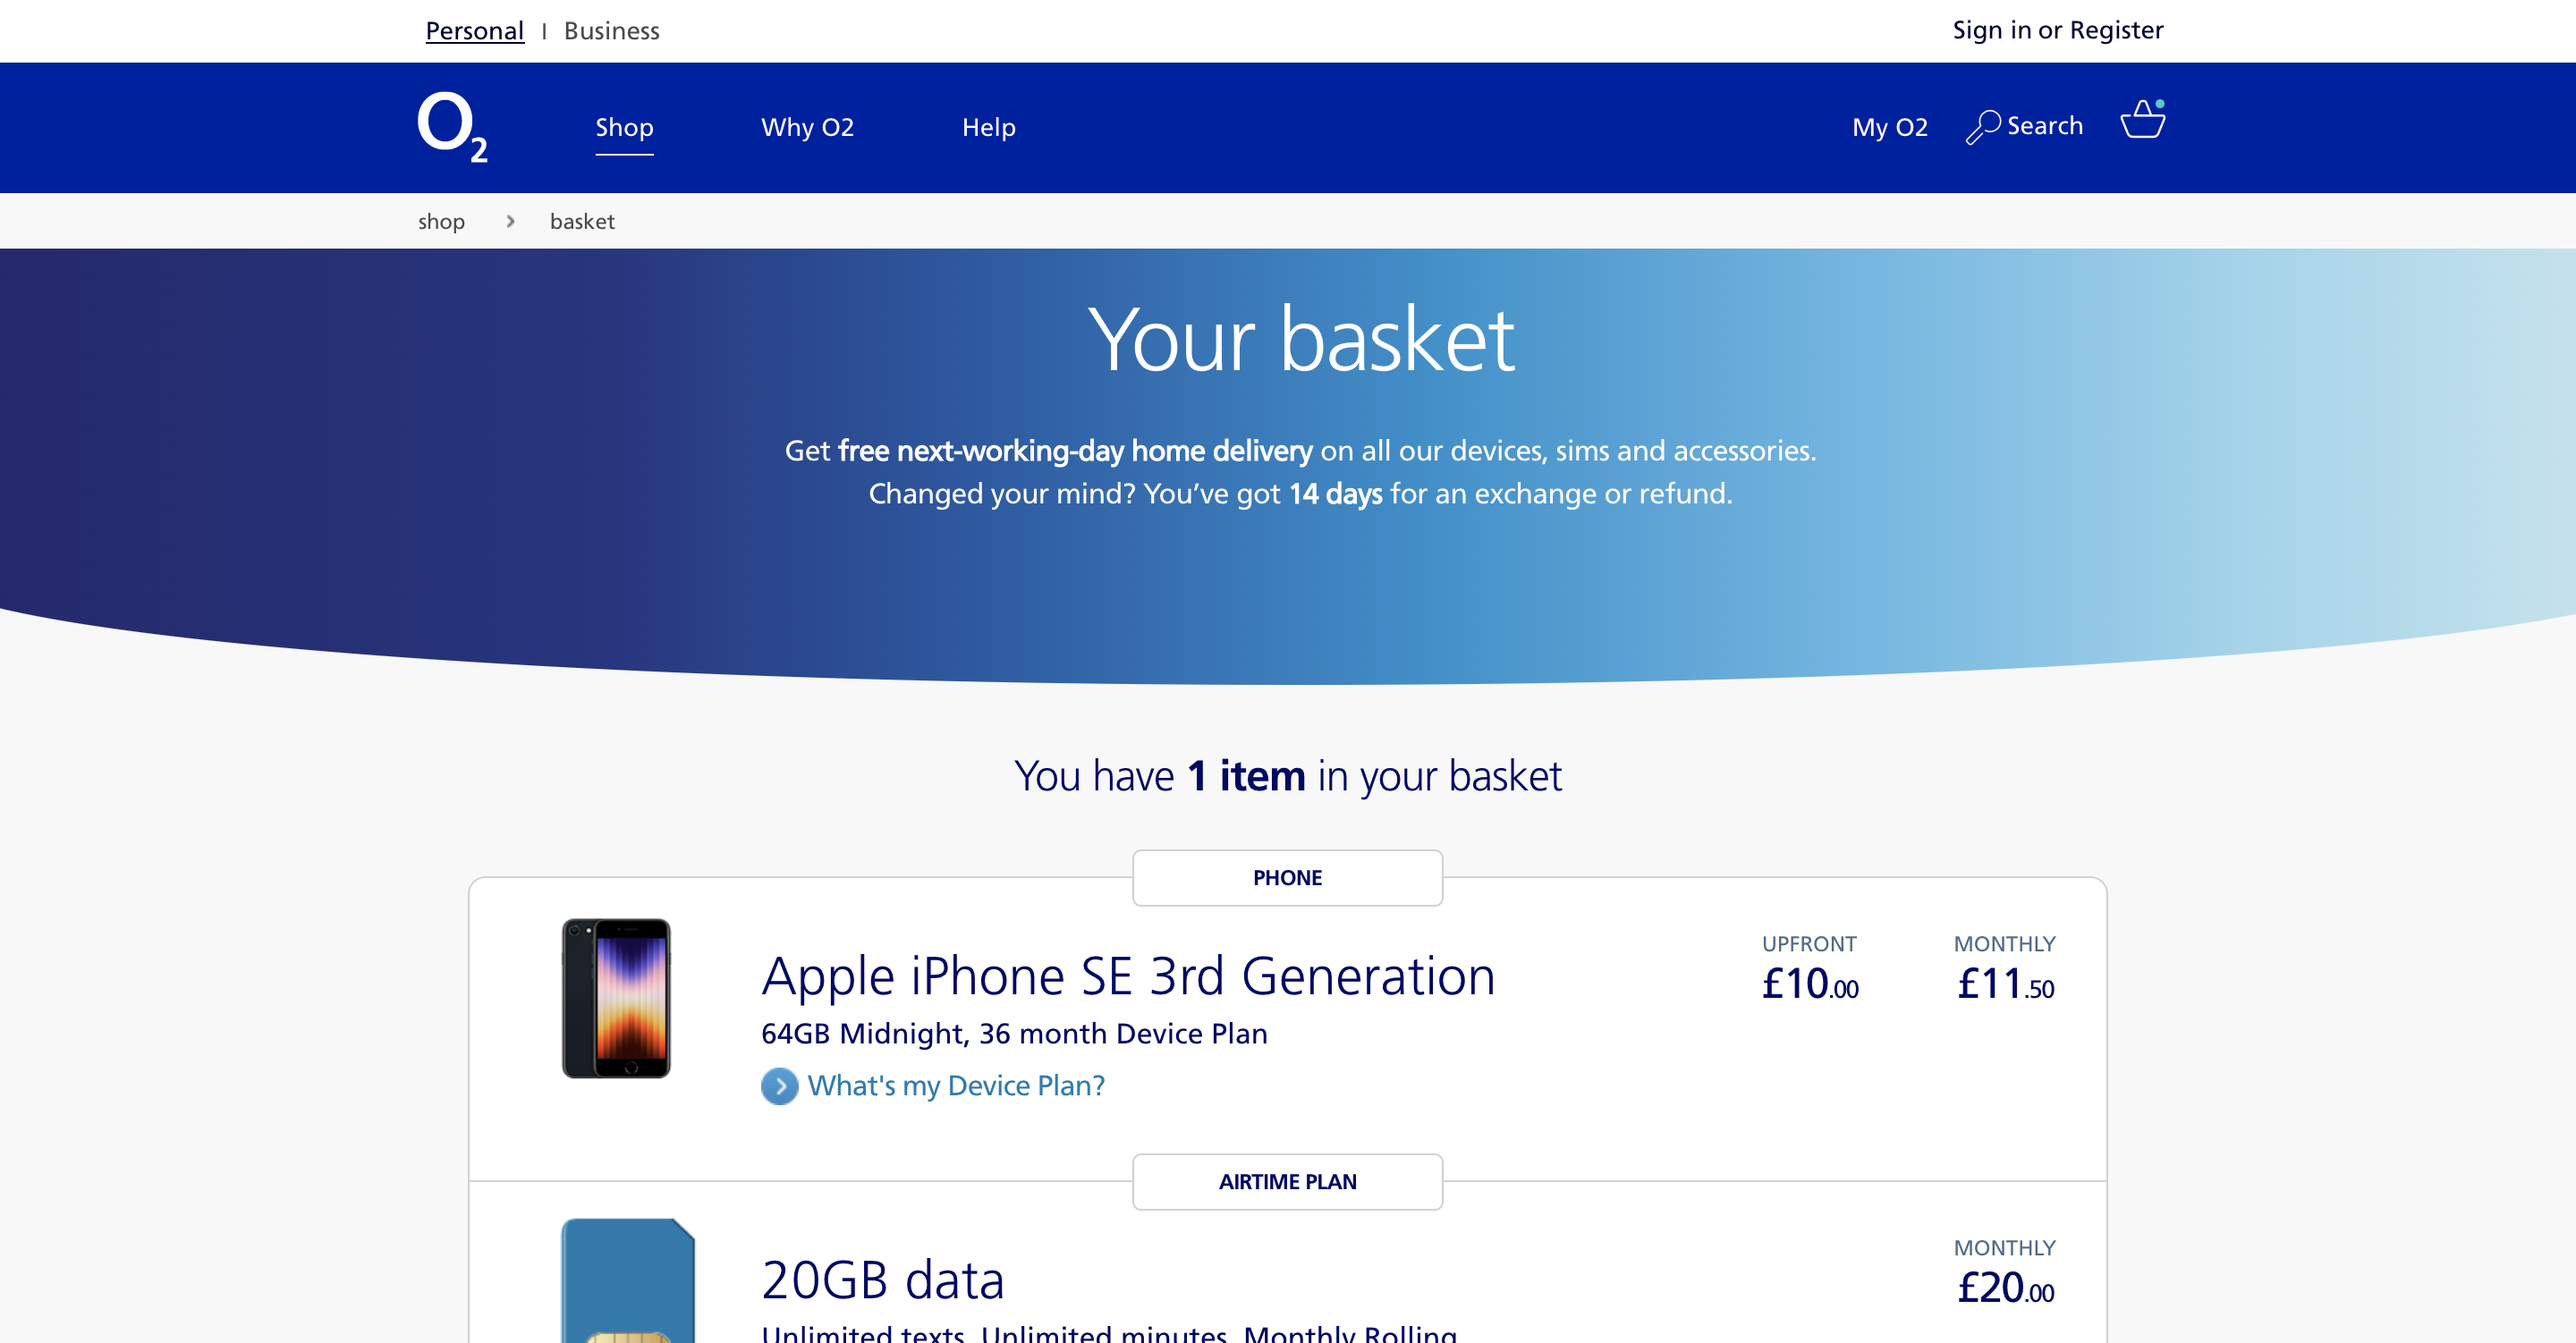
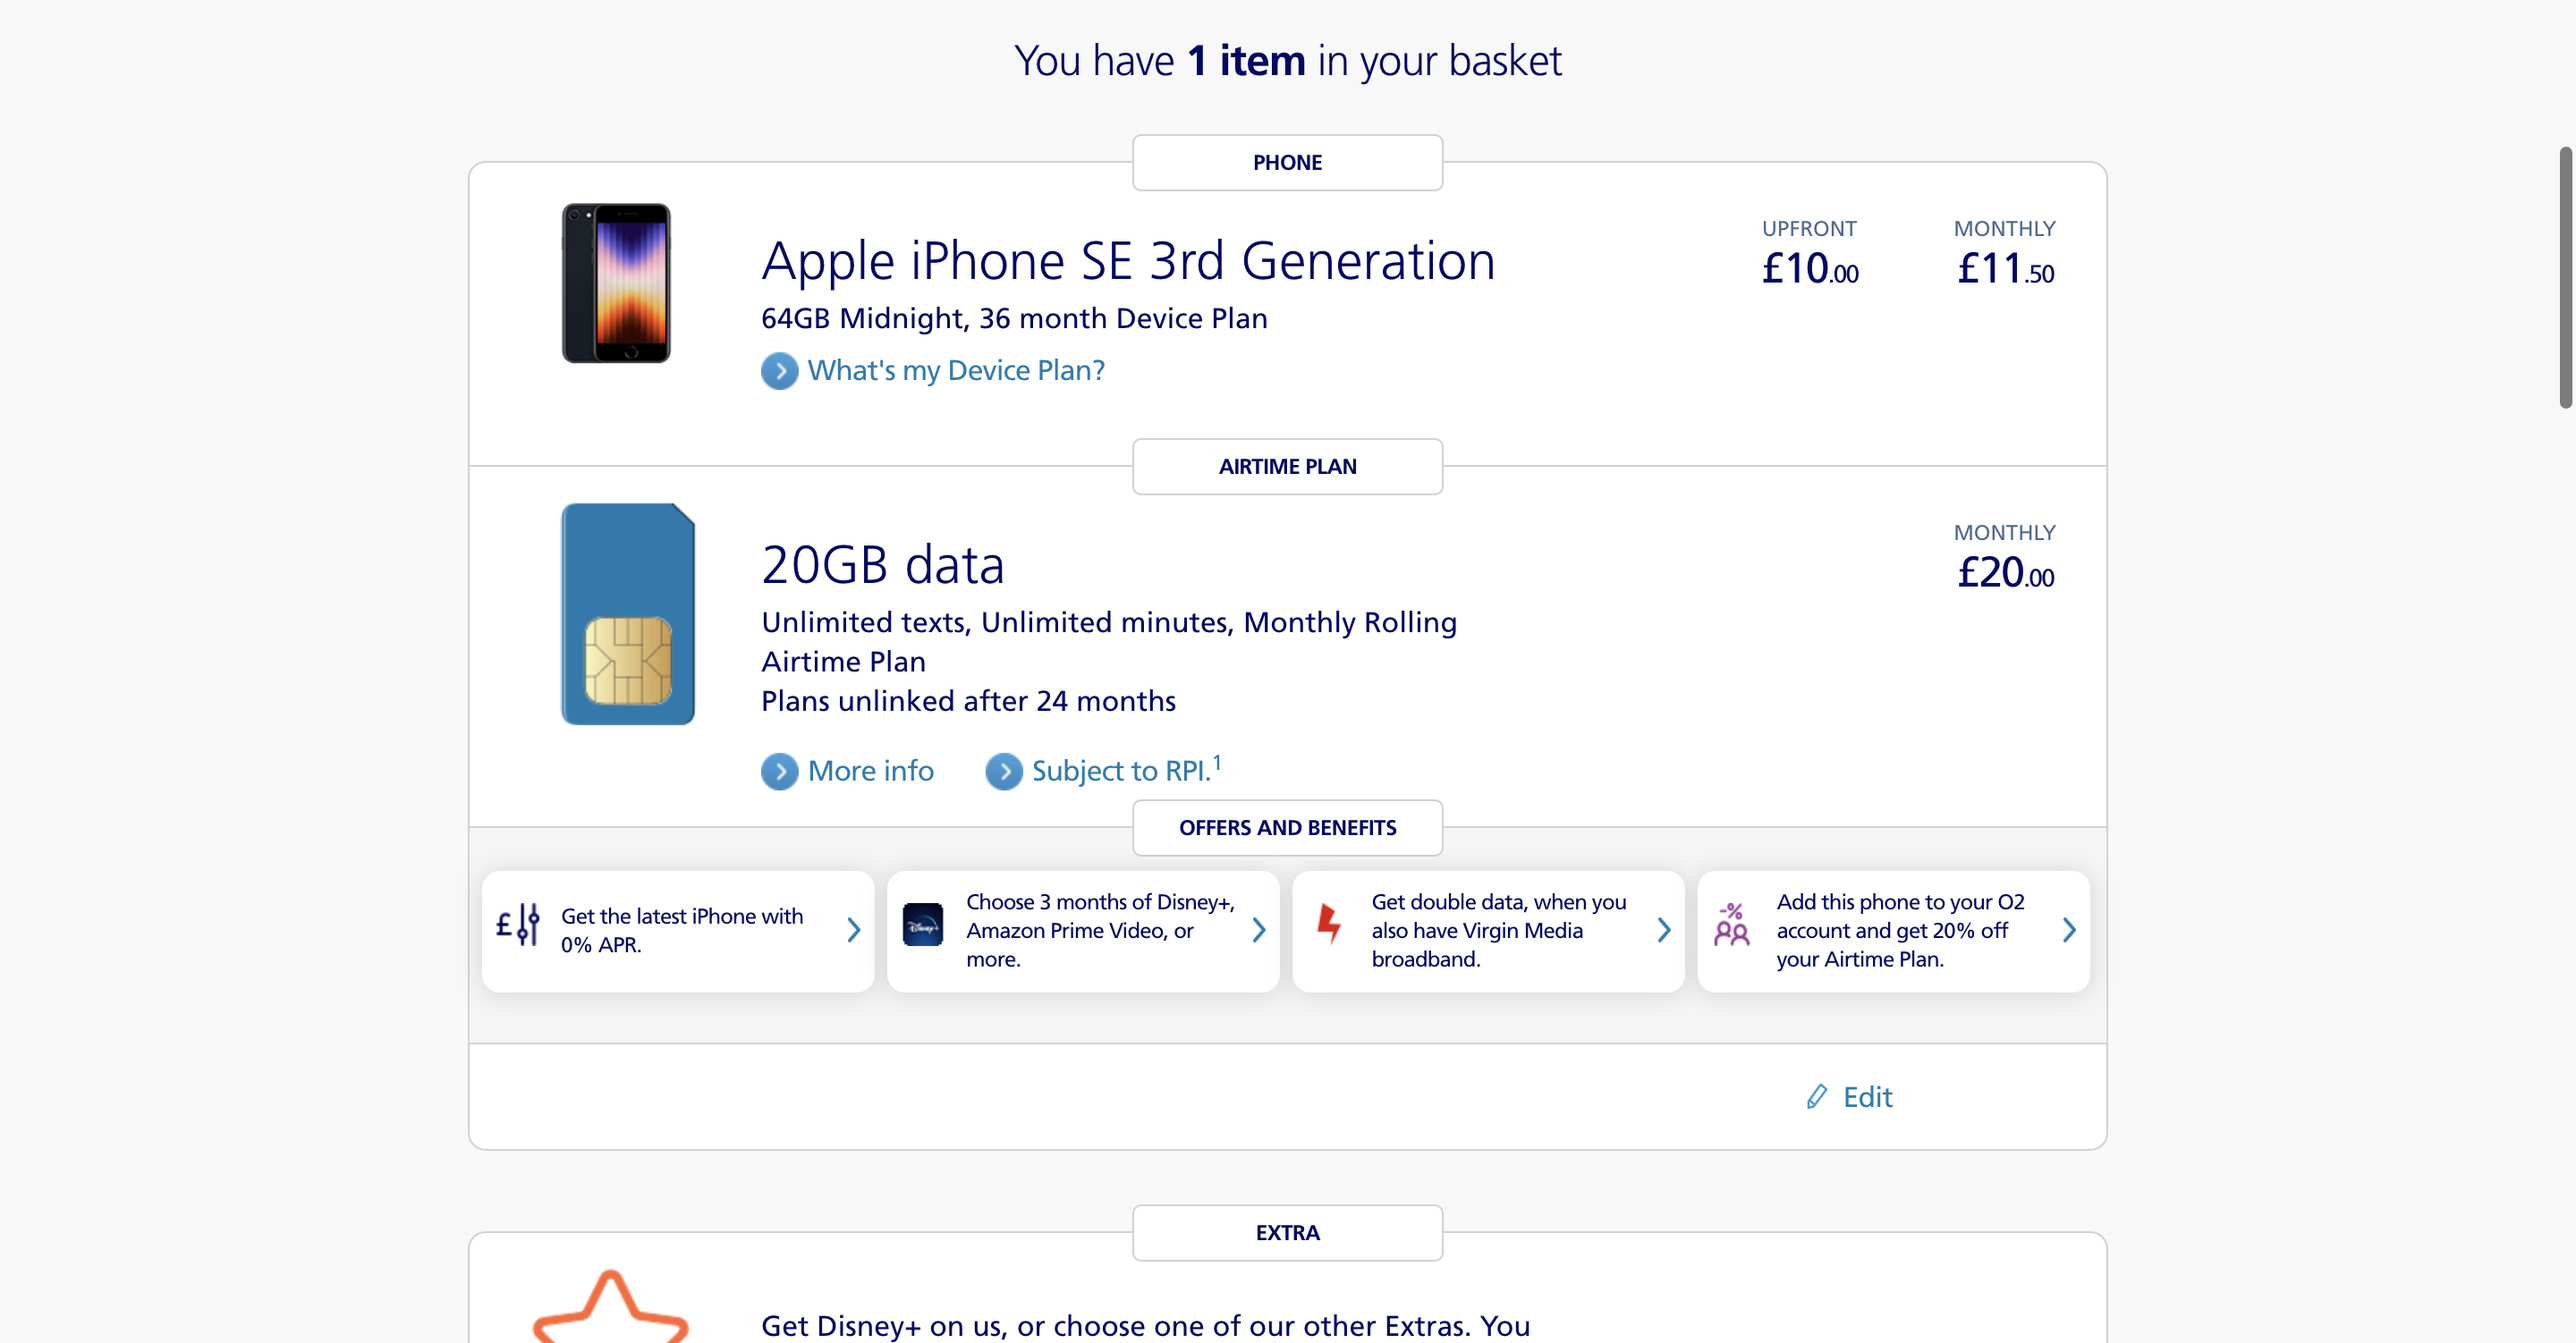
screenshot is now correct

diff --git a/O2_Script.py b/O2_Script.py
@@ -166,6 +166,10 @@ def iphone_data_collector():
 
         #Screenshot
         image_filename = 'images/O2_iP_Screens/images/screenshot_' + str(phone_name) + '_' + str(image_counter) + '.png'
+        #Scroll works well to screenshot section.
+        driver.execute_script("scrollBy(0,-500);")
+        time.sleep(2)
+        driver.execute_script("scrollBy(0,400);")
         driver.save_screenshot(image_filename);
         image_counter += 1;
 
